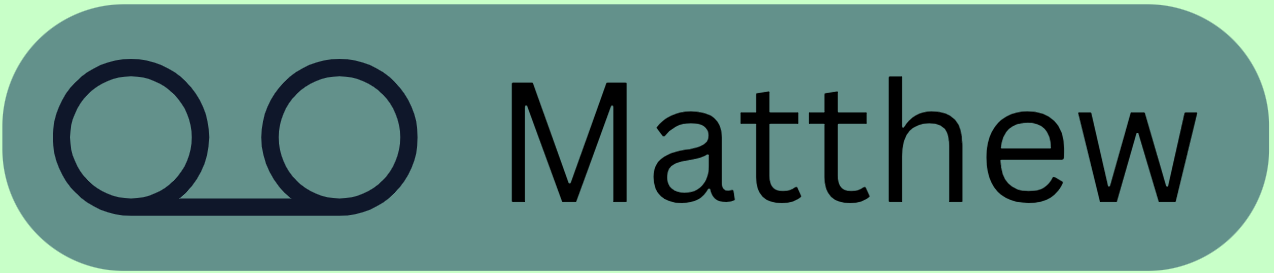
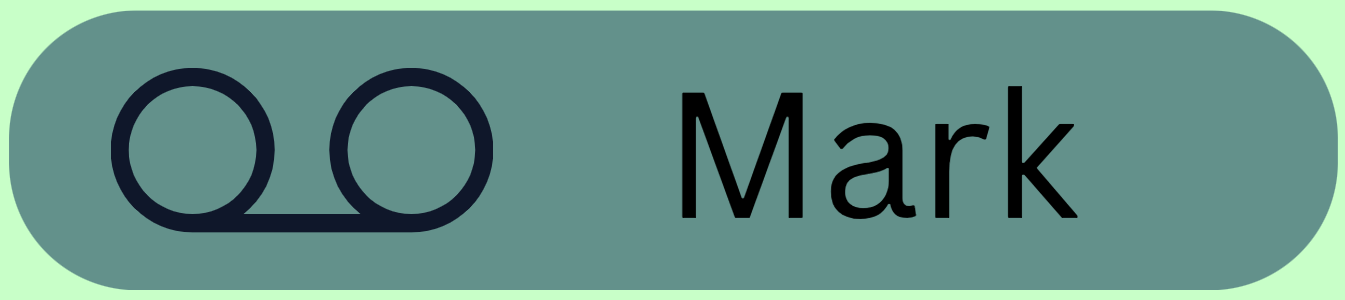
Change name on voicemail to Mark and fix associated scaling issues with new image

diff --git a/index.css b/index.css
@@ -31,12 +31,12 @@
 @media (max-width: 600px){
     body{font-size: 18;}
     /* .voicemail_button{height: 50px;} */
-    .voicemail_button{width: 60%;}
+    .voicemail_button{width: 65%;}
 }
 
 /* If on desktop */
 @media (min-width: 601px){
     body{font-size: 30;}
     /* .voicemail_button{height: 50px;} */
-    .voicemail_button{width: 40%;}
+    .voicemail_button{width: 35%;}
 }
